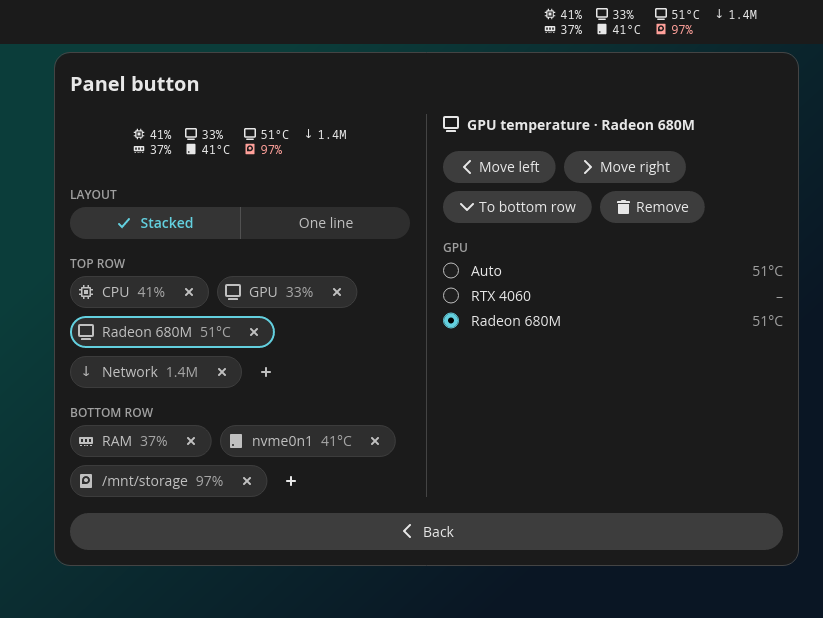
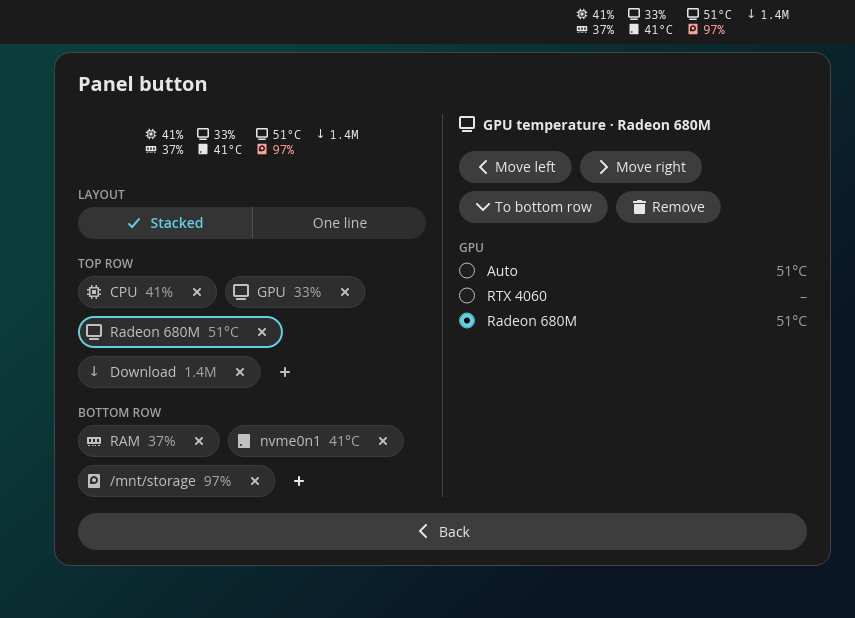
style: follow frosted glass in our own colours, and match native popup margins
The graphs, the dimmed text, the builder's preview and chips and the One line
separator took the theme's opaque layer, so under frosted glass they showed
as solid patches inside the translucent popup. They now take the popup's own
layer, translucent when the theme is, as libcosmic's widgets do.

The popup's content now sits space_m (24) from its edges and its dividers
space_s (16), as in COSMIC's applets; the column is 16 wider so the content
keeps its width.

diff --git a/src/ui/builder.rs b/src/ui/builder.rs
@@ -185,9 +185,10 @@ pub fn view<'a>(
             .into(),
         Columns::Two => popup::side_by_side(column(main).into(), column(vec![detail]).into()),
     };
-    let page = widget::container(page).padding([0, spacing.space_s]);
+    // `space_m` from the edges, as the stats page's sections and COSMIC's applets.
+    let page = widget::container(page).padding([0, spacing.space_m]);
     let padded =
-        |content: Element<'a, Message>| widget::container(content).padding([0, spacing.space_s]);
+        |content: Element<'a, Message>| widget::container(content).padding([0, spacing.space_m]);
     widget::Column::new()
         .spacing(spacing.space_s)
         .push(padded(widget::text::title4(fl!("panel-button")).into()))
@@ -213,9 +214,9 @@ fn preview(button: widget::Button<'_, Message>) -> Element<'_, Message> {
         .class(cosmic::theme::Container::custom(|theme| {
             let cosmic = theme.cosmic();
             widget::container::Style {
-                text_color: Some(cosmic.background(false).on.into()),
-                icon_color: Some(cosmic.background(false).on.into()),
-                background: Some(Color::from(cosmic.background(false).base).into()),
+                text_color: Some(cosmic.background(theme.transparent).on.into()),
+                icon_color: Some(cosmic.background(theme.transparent).on.into()),
+                background: Some(Color::from(cosmic.background(theme.transparent).base).into()),
                 border: cosmic::iced::Border {
                     radius: cosmic.corner_radii.radius_s.into(),
                     ..Default::default()
@@ -303,7 +304,7 @@ fn chip<'a>(slot: Slot, item: &Item, stats: &Stats, selected: bool) -> Element<'
     .padding([0, spacing.space_xxxs, 0, 0])
     .class(cosmic::theme::Container::custom(move |theme| {
         let cosmic = theme.cosmic();
-        let component = &cosmic.background(false).component;
+        let component = &cosmic.background(theme.transparent).component;
         widget::container::Style {
             text_color: Some(component.on.into()),
             icon_color: Some(component.on.into()),
@@ -328,7 +329,7 @@ fn chip<'a>(slot: Slot, item: &Item, stats: &Stats, selected: bool) -> Element<'
 fn chip_button() -> cosmic::theme::Button {
     fn style(theme: &cosmic::Theme, hovered: bool) -> widget::button::Style {
         let cosmic = theme.cosmic();
-        let component = &cosmic.background(false).component;
+        let component = &cosmic.background(theme.transparent).component;
         widget::button::Style {
             background: hovered.then(|| Color::from(component.hover).into()),
             border_radius: cosmic.corner_radii.radius_xl.into(),

diff --git a/src/ui/popup.rs b/src/ui/popup.rs
@@ -80,7 +80,7 @@ pub fn view<'a>(
             let body = widget::container(body).padding([0, spacing.space_s]);
             widget::Column::new()
                 .push(widget::container(widget::scrollable(body)).max_height(max_height))
-                .push(widget::container(footer()).padding([0, spacing.space_s]))
+                .push(widget::container(footer()).padding([0, spacing.space_m]))
                 .spacing(spacing.space_s)
                 .into()
         }
@@ -144,13 +144,17 @@ pub(super) fn side_by_side<'a>(
         .into()
 }
 
+/// `sections` between dividers. As in COSMIC's applets, the dividers reach `space_xxs` further
+/// out than the sections: the sections sit `space_m` from the popup's edges, the dividers
+/// `space_s`.
 fn with_dividers(sections: Vec<Element<'_, Message>>) -> Element<'_, Message> {
-    let mut page = widget::Column::new().spacing(cosmic::theme::spacing().space_xs);
+    let spacing = cosmic::theme::spacing();
+    let mut page = widget::Column::new().spacing(spacing.space_xs);
     for (i, section) in sections.into_iter().enumerate() {
         if i > 0 {
             page = page.push(widget::divider::horizontal::default());
         }
-        page = page.push(section);
+        page = page.push(widget::container(section).padding([0, spacing.space_xxs]));
     }
     page.into()
 }
@@ -767,7 +771,7 @@ pub(super) fn one_line(text: widget::Text<'_, cosmic::Theme>) -> widget::Text<'_
 
 pub(super) fn muted(text: widget::Text<'_, cosmic::Theme>) -> widget::Text<'_, cosmic::Theme> {
     text.class(cosmic::theme::Text::Custom(|theme| {
-        let mut color: Color = theme.cosmic().on_bg_color().into();
+        let mut color: Color = theme.cosmic().background(theme.transparent).on.into();
         color.a *= MUTED_ALPHA;
         text_style(theme, color)
     }))

diff --git a/src/ui/settings.rs b/src/ui/settings.rs
@@ -350,10 +350,11 @@ pub fn view<'a>(
             column(popup_and_warnings).into(),
         ),
     };
-    // As on the stats page, the scroll bar runs in the popup's side padding.
-    let page = widget::container(page).padding([0, spacing.space_s]);
+    // `space_m` from the edges, as the stats page's sections and COSMIC's applets; the scroll
+    // bar runs in that padding.
+    let page = widget::container(page).padding([0, spacing.space_m]);
     let padded =
-        |content: Element<'a, Message>| widget::container(content).padding([0, spacing.space_s]);
+        |content: Element<'a, Message>| widget::container(content).padding([0, spacing.space_m]);
     widget::Column::new()
         .spacing(spacing.space_s)
         .align_x(Alignment::Start)

diff --git a/src/ui/columns.rs b/src/ui/columns.rs
@@ -20,9 +20,11 @@ pub enum Columns {
     Two,
 }
 
-/// The popup's width in one column.
-const COLUMN_WIDTH: f32 = 372.0;
-/// The popup's padding either side of its content: COSMIC's `space_s`.
+/// The popup's width in one column: 340 of content, inset 24 from the edges as COSMIC's applets
+/// inset theirs (`space_m`).
+const COLUMN_WIDTH: f32 = 388.0;
+/// The popup's padding either side of its content, where the dividers end: COSMIC's `space_s`.
+/// The sections are inset a further `space_xxs`.
 const SIDE_PADDING: f32 = 16.0;
 /// The space between two columns: the side padding either side of a divider.
 const COLUMN_GAP: f32 = 2.0 * SIDE_PADDING + 1.0;

diff --git a/src/ui/graph.rs b/src/ui/graph.rs
@@ -161,11 +161,13 @@ struct Colors {
 
 impl Colors {
     fn of(theme: &cosmic::Theme) -> Self {
+        // The popup's own layer: translucent under frosted glass, as libcosmic's widgets pick.
         let cosmic = theme.cosmic();
+        let layer = cosmic.background(theme.transparent);
         Self {
-            background: cosmic.bg_component_color().into(),
+            background: layer.component.base.into(),
             accent: cosmic.accent_color().into(),
-            text: cosmic.on_bg_color().into(),
+            text: layer.on.into(),
             warn: cosmic.destructive_color().into(),
         }
     }

diff --git a/src/ui/panel_button.rs b/src/ui/panel_button.rs
@@ -178,7 +178,7 @@ fn separator<'a>(size: f32) -> Element<'a, Message> {
         .width(Length::Fixed(1.0))
         .height(Length::Fixed(size))
         .class(cosmic::theme::Container::custom(|theme| {
-            let mut color: Color = theme.cosmic().background(false).on.into();
+            let mut color: Color = theme.cosmic().background(theme.transparent).on.into();
             color.a *= SEPARATOR_ALPHA;
             widget::container::Style {
                 background: Some(color.into()),
